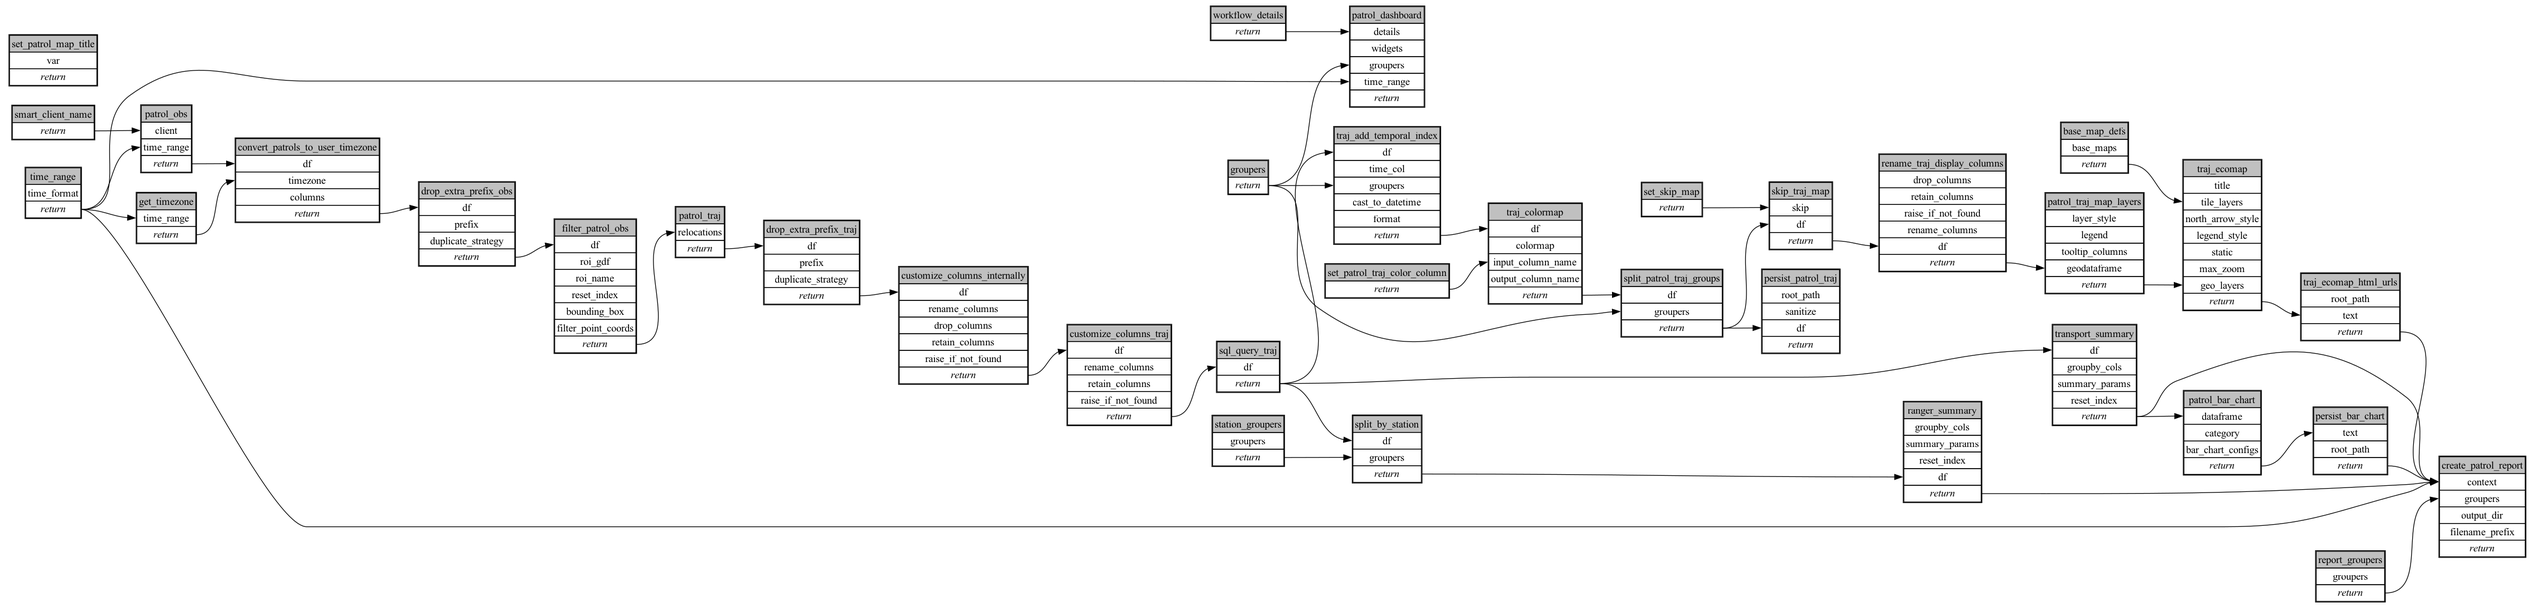
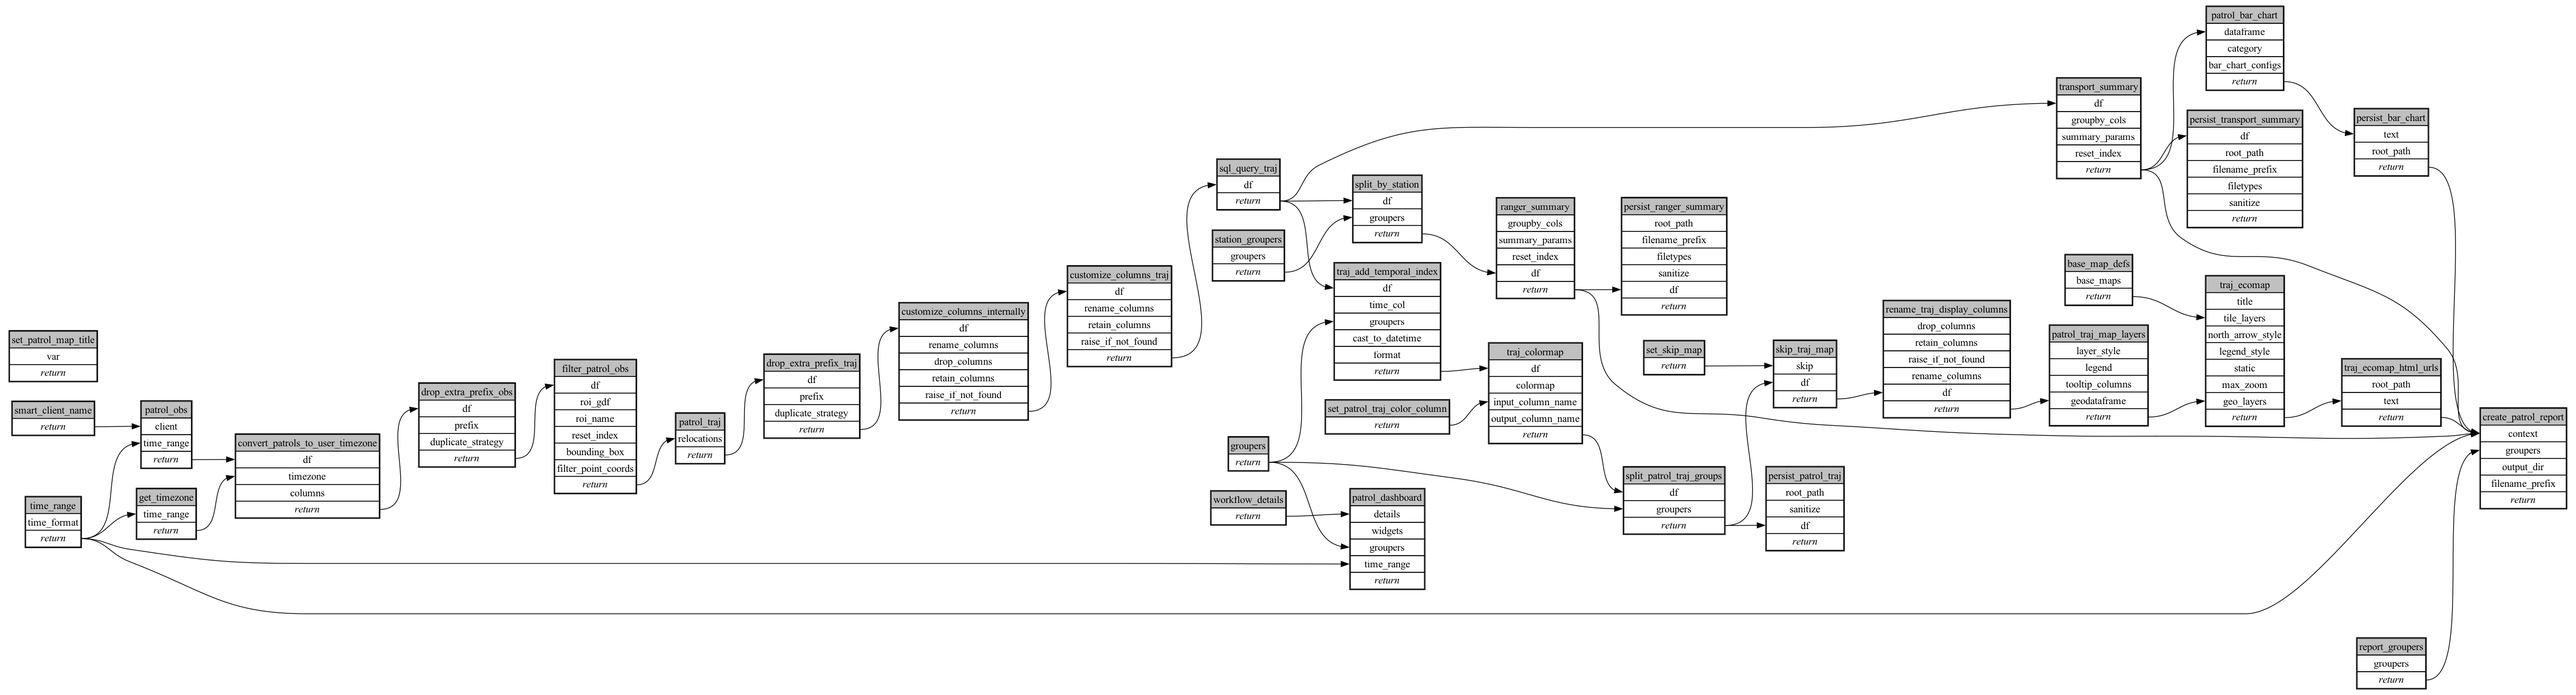
Add persist tasks for transport and ranger summary tables
- persist_transport_summary: saves transport summary as CSV
- persist_ranger_summary: saves ranger summary per station as CSV
- Both use skipif: never to ensure they always run

diff --git a/ecoscope-workflows-mt-patrols-workflow/ecoscope_workflows_mt_patrols_workflow/dags/run_async.py b/ecoscope-workflows-mt-patrols-workflow/ecoscope_workflows_mt_patrols_workflow/dags/run_async.py
@@ -104,9 +104,11 @@ def main(params: Params):
         "transport_summary": ["sql_query_traj"],
         "patrol_bar_chart": ["transport_summary"],
         "persist_bar_chart": ["patrol_bar_chart"],
+        "persist_transport_summary": ["transport_summary"],
         "station_groupers": [],
         "split_by_station": ["sql_query_traj", "station_groupers"],
         "ranger_summary": ["split_by_station"],
+        "persist_ranger_summary": ["ranger_summary"],
         "report_groupers": [],
         "create_patrol_report": [
             "time_range",
@@ -828,6 +830,30 @@ def main(params: Params):
             | (params_dict.get("persist_bar_chart") or {}),
             method="call",
         ),
+        "persist_transport_summary": Node(
+            async_task=persist_df_wrapper.validate()
+            .set_task_instance_id("persist_transport_summary")
+            .handle_errors()
+            .with_tracing()
+            .skipif(
+                conditions=[
+                    never,
+                ],
+                unpack_depth=1,
+            )
+            .set_executor("lithops"),
+            partial={
+                "df": DependsOn("transport_summary"),
+                "root_path": os.environ["ECOSCOPE_WORKFLOWS_RESULTS"],
+                "filename_prefix": "transport_summary",
+                "filetypes": [
+                    "csv",
+                ],
+                "sanitize": True,
+            }
+            | (params_dict.get("persist_transport_summary") or {}),
+            method="call",
+        ),
         "station_groupers": Node(
             async_task=set_groupers.validate()
             .set_task_instance_id("station_groupers")
@@ -916,6 +942,33 @@ def main(params: Params):
             kwargs={
                 "argnames": ["df"],
                 "argvalues": DependsOn("split_by_station"),
+            },
+        ),
+        "persist_ranger_summary": Node(
+            async_task=persist_df_wrapper.validate()
+            .set_task_instance_id("persist_ranger_summary")
+            .handle_errors()
+            .with_tracing()
+            .skipif(
+                conditions=[
+                    never,
+                ],
+                unpack_depth=1,
+            )
+            .set_executor("lithops"),
+            partial={
+                "root_path": os.environ["ECOSCOPE_WORKFLOWS_RESULTS"],
+                "filename_prefix": "ranger_summary",
+                "filetypes": [
+                    "csv",
+                ],
+                "sanitize": True,
+            }
+            | (params_dict.get("persist_ranger_summary") or {}),
+            method="mapvalues",
+            kwargs={
+                "argnames": ["df"],
+                "argvalues": DependsOn("ranger_summary"),
             },
         ),
         "report_groupers": Node(

diff --git a/ecoscope-workflows-mt-patrols-workflow/ecoscope_workflows_mt_patrols_workflow/dags/run_async_mock_io.py b/ecoscope-workflows-mt-patrols-workflow/ecoscope_workflows_mt_patrols_workflow/dags/run_async_mock_io.py
@@ -118,9 +118,11 @@ def main(params: Params):
         "transport_summary": ["sql_query_traj"],
         "patrol_bar_chart": ["transport_summary"],
         "persist_bar_chart": ["patrol_bar_chart"],
+        "persist_transport_summary": ["transport_summary"],
         "station_groupers": [],
         "split_by_station": ["sql_query_traj", "station_groupers"],
         "ranger_summary": ["split_by_station"],
+        "persist_ranger_summary": ["ranger_summary"],
         "report_groupers": [],
         "create_patrol_report": [
             "time_range",
@@ -842,6 +844,30 @@ def main(params: Params):
             | (params_dict.get("persist_bar_chart") or {}),
             method="call",
         ),
+        "persist_transport_summary": Node(
+            async_task=persist_df_wrapper.validate()
+            .set_task_instance_id("persist_transport_summary")
+            .handle_errors()
+            .with_tracing()
+            .skipif(
+                conditions=[
+                    never,
+                ],
+                unpack_depth=1,
+            )
+            .set_executor("lithops"),
+            partial={
+                "df": DependsOn("transport_summary"),
+                "root_path": os.environ["ECOSCOPE_WORKFLOWS_RESULTS"],
+                "filename_prefix": "transport_summary",
+                "filetypes": [
+                    "csv",
+                ],
+                "sanitize": True,
+            }
+            | (params_dict.get("persist_transport_summary") or {}),
+            method="call",
+        ),
         "station_groupers": Node(
             async_task=set_groupers.validate()
             .set_task_instance_id("station_groupers")
@@ -930,6 +956,33 @@ def main(params: Params):
             kwargs={
                 "argnames": ["df"],
                 "argvalues": DependsOn("split_by_station"),
+            },
+        ),
+        "persist_ranger_summary": Node(
+            async_task=persist_df_wrapper.validate()
+            .set_task_instance_id("persist_ranger_summary")
+            .handle_errors()
+            .with_tracing()
+            .skipif(
+                conditions=[
+                    never,
+                ],
+                unpack_depth=1,
+            )
+            .set_executor("lithops"),
+            partial={
+                "root_path": os.environ["ECOSCOPE_WORKFLOWS_RESULTS"],
+                "filename_prefix": "ranger_summary",
+                "filetypes": [
+                    "csv",
+                ],
+                "sanitize": True,
+            }
+            | (params_dict.get("persist_ranger_summary") or {}),
+            method="mapvalues",
+            kwargs={
+                "argnames": ["df"],
+                "argvalues": DependsOn("ranger_summary"),
             },
         ),
         "report_groupers": Node(

diff --git a/ecoscope-workflows-mt-patrols-workflow/ecoscope_workflows_mt_patrols_workflow/dags/run_sequential.py b/ecoscope-workflows-mt-patrols-workflow/ecoscope_workflows_mt_patrols_workflow/dags/run_sequential.py
@@ -721,6 +721,28 @@ def main(params: Params):
         .call()
     )
 
+    persist_transport_summary = (
+        persist_df_wrapper.validate()
+        .set_task_instance_id("persist_transport_summary")
+        .handle_errors()
+        .with_tracing()
+        .skipif(
+            conditions=[
+                never,
+            ],
+            unpack_depth=1,
+        )
+        .partial(
+            df=transport_summary,
+            root_path=os.environ["ECOSCOPE_WORKFLOWS_RESULTS"],
+            filename_prefix="transport_summary",
+            filetypes=["csv"],
+            sanitize=True,
+            **(params_dict.get("persist_transport_summary") or {}),
+        )
+        .call()
+    )
+
     station_groupers = (
         set_groupers.validate()
         .set_task_instance_id("station_groupers")
@@ -799,6 +821,27 @@ def main(params: Params):
             **(params_dict.get("ranger_summary") or {}),
         )
         .mapvalues(argnames=["df"], argvalues=split_by_station)
+    )
+
+    persist_ranger_summary = (
+        persist_df_wrapper.validate()
+        .set_task_instance_id("persist_ranger_summary")
+        .handle_errors()
+        .with_tracing()
+        .skipif(
+            conditions=[
+                never,
+            ],
+            unpack_depth=1,
+        )
+        .partial(
+            root_path=os.environ["ECOSCOPE_WORKFLOWS_RESULTS"],
+            filename_prefix="ranger_summary",
+            filetypes=["csv"],
+            sanitize=True,
+            **(params_dict.get("persist_ranger_summary") or {}),
+        )
+        .mapvalues(argnames=["df"], argvalues=ranger_summary)
     )
 
     report_groupers = (

diff --git a/ecoscope-workflows-mt-patrols-workflow/ecoscope_workflows_mt_patrols_workflow/dags/run_sequential_mock_io.py b/ecoscope-workflows-mt-patrols-workflow/ecoscope_workflows_mt_patrols_workflow/dags/run_sequential_mock_io.py
@@ -735,6 +735,28 @@ def main(params: Params):
         .call()
     )
 
+    persist_transport_summary = (
+        persist_df_wrapper.validate()
+        .set_task_instance_id("persist_transport_summary")
+        .handle_errors()
+        .with_tracing()
+        .skipif(
+            conditions=[
+                never,
+            ],
+            unpack_depth=1,
+        )
+        .partial(
+            df=transport_summary,
+            root_path=os.environ["ECOSCOPE_WORKFLOWS_RESULTS"],
+            filename_prefix="transport_summary",
+            filetypes=["csv"],
+            sanitize=True,
+            **(params_dict.get("persist_transport_summary") or {}),
+        )
+        .call()
+    )
+
     station_groupers = (
         set_groupers.validate()
         .set_task_instance_id("station_groupers")
@@ -813,6 +835,27 @@ def main(params: Params):
             **(params_dict.get("ranger_summary") or {}),
         )
         .mapvalues(argnames=["df"], argvalues=split_by_station)
+    )
+
+    persist_ranger_summary = (
+        persist_df_wrapper.validate()
+        .set_task_instance_id("persist_ranger_summary")
+        .handle_errors()
+        .with_tracing()
+        .skipif(
+            conditions=[
+                never,
+            ],
+            unpack_depth=1,
+        )
+        .partial(
+            root_path=os.environ["ECOSCOPE_WORKFLOWS_RESULTS"],
+            filename_prefix="ranger_summary",
+            filetypes=["csv"],
+            sanitize=True,
+            **(params_dict.get("persist_ranger_summary") or {}),
+        )
+        .mapvalues(argnames=["df"], argvalues=ranger_summary)
     )
 
     report_groupers = (

diff --git a/ecoscope-workflows-mt-patrols-workflow/ecoscope_workflows_mt_patrols_workflow/dags/jupytext.py b/ecoscope-workflows-mt-patrols-workflow/ecoscope_workflows_mt_patrols_workflow/dags/jupytext.py
@@ -1117,6 +1117,42 @@ persist_bar_chart = (
 
 
 # %% [markdown]
+# ## Persist Transport Summary
+
+# %%
+# parameters
+
+persist_transport_summary_params = dict(
+    filename=...,
+)
+
+# %%
+# call the task
+
+
+persist_transport_summary = (
+    persist_df_wrapper.set_task_instance_id("persist_transport_summary")
+    .handle_errors()
+    .with_tracing()
+    .skipif(
+        conditions=[
+            never,
+        ],
+        unpack_depth=1,
+    )
+    .partial(
+        df=transport_summary,
+        root_path=os.environ["ECOSCOPE_WORKFLOWS_RESULTS"],
+        filename_prefix="transport_summary",
+        filetypes=["csv"],
+        sanitize=True,
+        **persist_transport_summary_params,
+    )
+    .call()
+)
+
+
+# %% [markdown]
 # ## Set Station Grouper
 
 # %%
@@ -1222,6 +1258,41 @@ ranger_summary = (
         **ranger_summary_params,
     )
     .mapvalues(argnames=["df"], argvalues=split_by_station)
+)
+
+
+# %% [markdown]
+# ## Persist Ranger Summary
+
+# %%
+# parameters
+
+persist_ranger_summary_params = dict(
+    filename=...,
+)
+
+# %%
+# call the task
+
+
+persist_ranger_summary = (
+    persist_df_wrapper.set_task_instance_id("persist_ranger_summary")
+    .handle_errors()
+    .with_tracing()
+    .skipif(
+        conditions=[
+            never,
+        ],
+        unpack_depth=1,
+    )
+    .partial(
+        root_path=os.environ["ECOSCOPE_WORKFLOWS_RESULTS"],
+        filename_prefix="ranger_summary",
+        filetypes=["csv"],
+        sanitize=True,
+        **persist_ranger_summary_params,
+    )
+    .mapvalues(argnames=["df"], argvalues=ranger_summary)
 )
 
 

diff --git a/ecoscope-workflows-mt-patrols-workflow/README.md b/ecoscope-workflows-mt-patrols-workflow/README.md
@@ -5,8 +5,8 @@
 
 ```yaml
 # fingerprint:
-artifacts_sha256_basic: 6a8fda42a078442cc7bb519f9e600f2e90d66a0aa8c2ddcb054f94d319a0e0db
-artifacts_sha256_strict: 97cab66e1505c68b85db7bd96f65d03c4a84aaa5d906ac68ed130d04ebc4d71a
+artifacts_sha256_basic: 674b680fb46391041b5d329f8cdec9dd9b1e2ec39d01eea4913145d65eadaabb
+artifacts_sha256_strict: f975669827b220c8f7f7b4fdda1973fc23bfa6a03e0dd33488ba9003099892a3
 installed_requirements:
 - channel: https://repo.prefix.dev/ecoscope-workflows/
   name: ecoscope-workflows-core
@@ -18,7 +18,7 @@ installed_requirements:
   name: ecoscope-workflows-ext-custom
   version: {version: ==0.0.37.dev13+g664ec55df}
 params_sha256: dd3816976e5cbada3355a4e2f93e00cb20e9d9902a3cff632f468235367efa29
-spec_sha256: fafa6f2b07e8f16ea846d4be2ab8f48775d09daab309031611dbc71bb1a7e9ba
+spec_sha256: fd05373ad7b6d8b801b1c98eeebf2eb841712f2b90d0216ff7f407e7bb277cca
 
 ```
 
